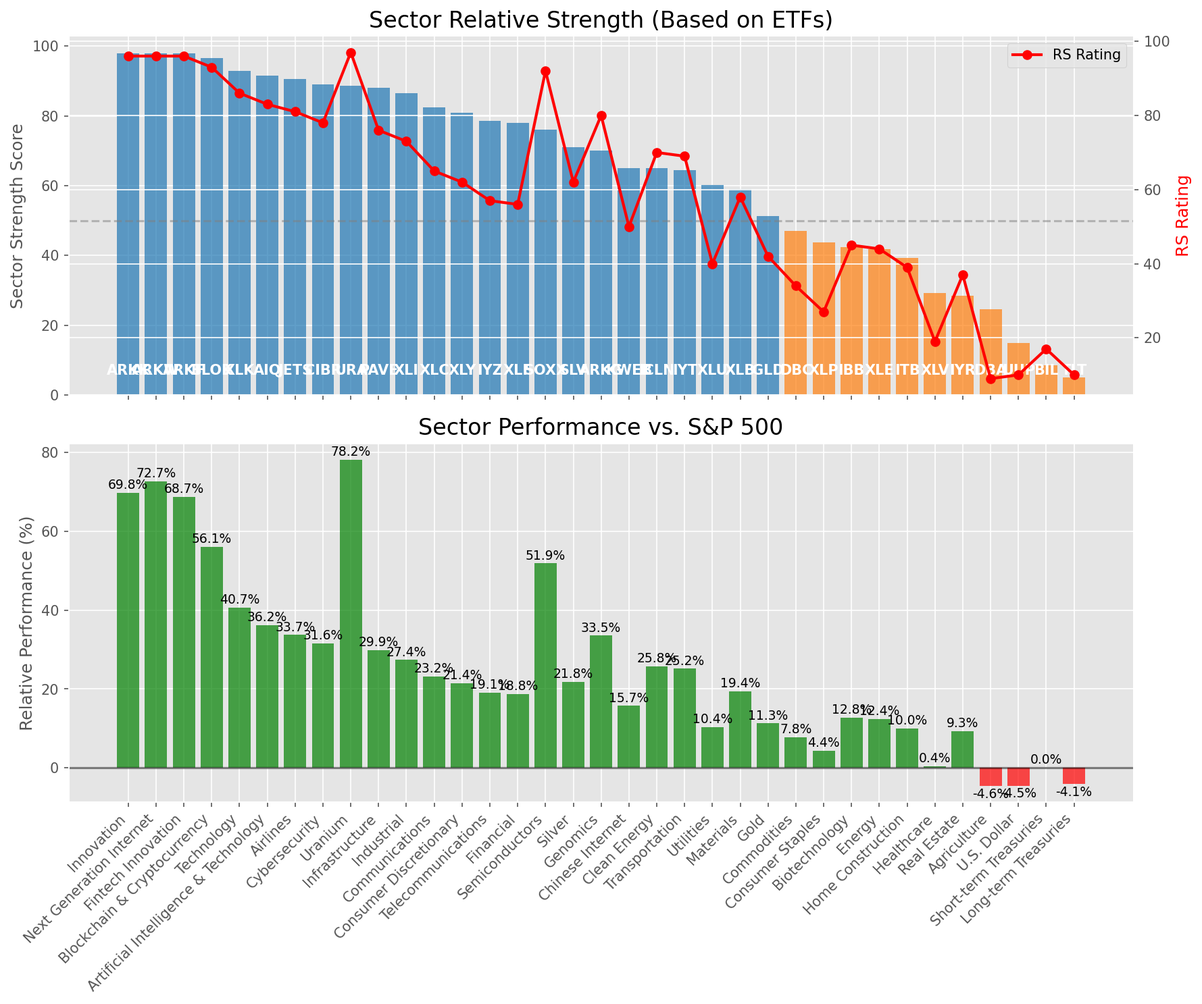
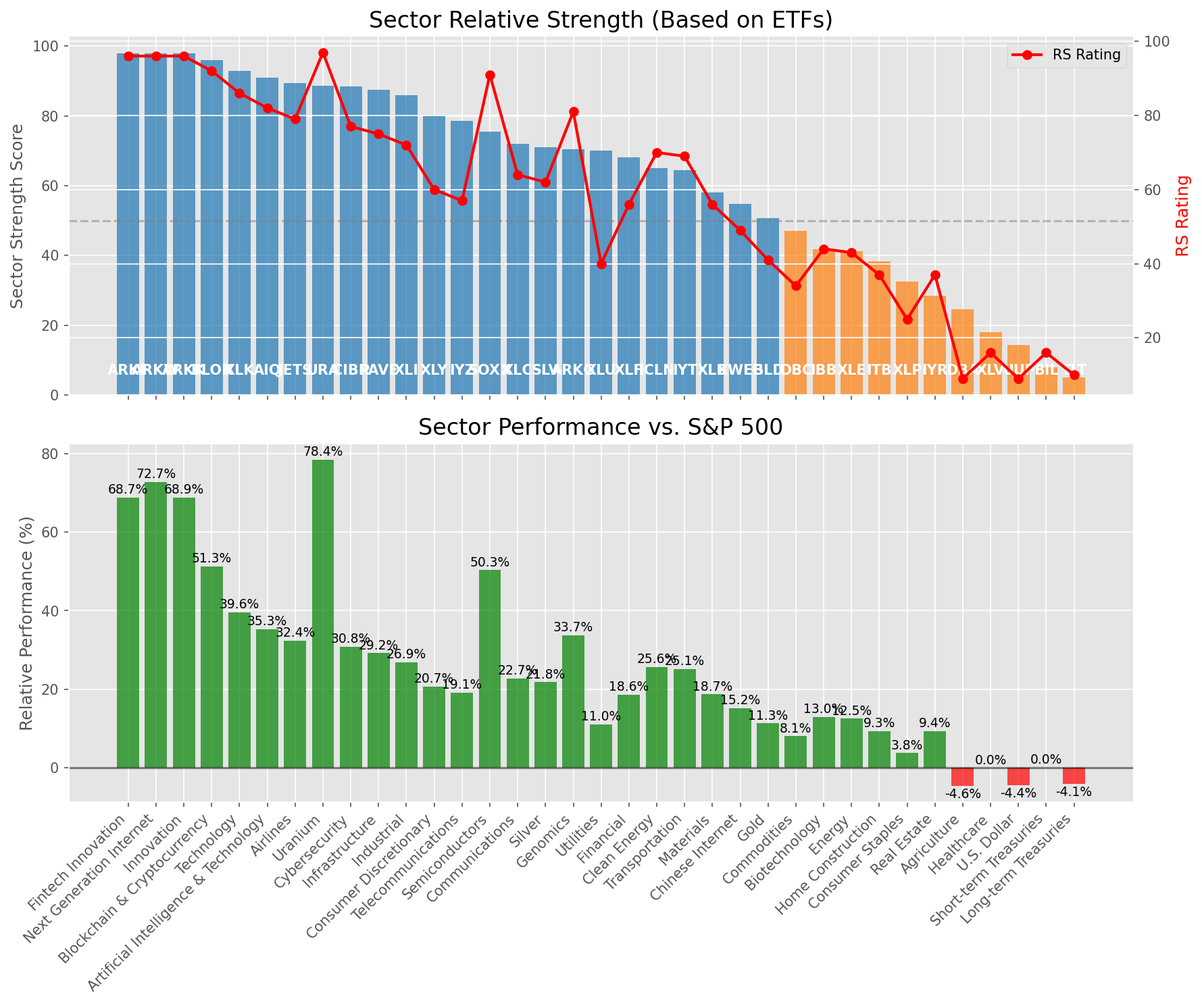
Add market report for 2025-07-09

diff --git a/oneil_relative_strength_report_2025-07-09.md b/oneil_relative_strength_report_2025-07-09.md
@@ -9,11 +9,11 @@
 | Metric | Value |
 |--------|-------|
 | **Market Valuation** | **Overvalued** |
-| **Current Ratio** | 10.26 |
+| **Current Ratio** | 10.21 |
 | **Historical Mean** | 9.42 |
 | **Standard Deviation** | 0.50 |
 | **Z-Score (StdDev from Mean)** | 1.54 |
-| **Total Market Cap** | $307.32 trillion |
+| **Total Market Cap** | $305.89 trillion |
 | **GDP** | $29.96 trillion |
 
 ## **Market Insights**
@@ -49,41 +49,41 @@ Based on William O'Neil's Relative Strength Methodology
 
 | ETF | Strength | RS Rating | Performance | Above Key MAs | Trend | Sector |
 |-----|----------|-----------|-------------|--------------|-------|--------|
-| [ARKK](https://www.tradingview.com/chart/?symbol=ARKK) | 98.0 | 96.0 | 69.77% | 10d ✓, 50d ✓, 200d ✓ | ↗ | Innovation |
-| [ARKW](https://www.tradingview.com/chart/?symbol=ARKW) | 98.0 | 96.0 | 72.71% | 10d ✓, 50d ✓, 200d ✓ | ↗ | Next Generation Internet |
 | [ARKF](https://www.tradingview.com/chart/?symbol=ARKF) | 98.0 | 96.0 | 68.74% | 10d ✓, 50d ✓, 200d ✓ | ↗ | Fintech Innovation |
-| [BLOK](https://www.tradingview.com/chart/?symbol=BLOK) | 96.5 | 93.0 | 56.07% | 10d ✓, 50d ✓, 200d ✓ | ↗ | Blockchain & Cryptocurrency |
-| [XLK](https://www.tradingview.com/chart/?symbol=XLK) | 93.0 | 86.0 | 40.67% | 10d ✓, 50d ✓, 200d ✓ | ↗ | Technology |
-| [AIQ](https://www.tradingview.com/chart/?symbol=AIQ) | 91.5 | 83.0 | 36.24% | 10d ✓, 50d ✓, 200d ✓ | ↗ | Artificial Intelligence & Technology |
-| [JETS](https://www.tradingview.com/chart/?symbol=JETS) | 90.5 | 81.0 | 33.74% | 10d ✓, 50d ✓, 200d ✓ | ↗ | Airlines |
-| [CIBR](https://www.tradingview.com/chart/?symbol=CIBR) | 89.0 | 78.0 | 31.58% | 10d ✓, 50d ✓, 200d ✓ | ↗ | Cybersecurity |
-| [URA](https://www.tradingview.com/chart/?symbol=URA) | 88.6 | 97.0 | 78.21% | 10d ✗, 50d ✓, 200d ✓ | ↗ | Uranium |
-| [PAVE](https://www.tradingview.com/chart/?symbol=PAVE) | 88.0 | 76.0 | 29.92% | 10d ✓, 50d ✓, 200d ✓ | ↗ | Infrastructure |
-| [XLI](https://www.tradingview.com/chart/?symbol=XLI) | 86.5 | 73.0 | 27.39% | 10d ✓, 50d ✓, 200d ✓ | ↗ | Industrial |
-| [XLC](https://www.tradingview.com/chart/?symbol=XLC) | 82.5 | 65.0 | 23.21% | 10d ✓, 50d ✓, 200d ✓ | ↗ | Communications |
-| [XLY](https://www.tradingview.com/chart/?symbol=XLY) | 81.0 | 62.0 | 21.43% | 10d ✓, 50d ✓, 200d ✓ | ↗ | Consumer Discretionary |
+| [ARKW](https://www.tradingview.com/chart/?symbol=ARKW) | 98.0 | 96.0 | 72.71% | 10d ✓, 50d ✓, 200d ✓ | ↗ | Next Generation Internet |
+| [ARKK](https://www.tradingview.com/chart/?symbol=ARKK) | 98.0 | 96.0 | 68.85% | 10d ✓, 50d ✓, 200d ✓ | ↗ | Innovation |
+| [BLOK](https://www.tradingview.com/chart/?symbol=BLOK) | 96.0 | 92.0 | 51.28% | 10d ✓, 50d ✓, 200d ✓ | ↗ | Blockchain & Cryptocurrency |
+| [XLK](https://www.tradingview.com/chart/?symbol=XLK) | 93.0 | 86.0 | 39.62% | 10d ✓, 50d ✓, 200d ✓ | ↗ | Technology |
+| [AIQ](https://www.tradingview.com/chart/?symbol=AIQ) | 91.0 | 82.0 | 35.33% | 10d ✓, 50d ✓, 200d ✓ | ↗ | Artificial Intelligence & Technology |
+| [JETS](https://www.tradingview.com/chart/?symbol=JETS) | 89.5 | 79.0 | 32.35% | 10d ✓, 50d ✓, 200d ✓ | ↗ | Airlines |
+| [URA](https://www.tradingview.com/chart/?symbol=URA) | 88.6 | 97.0 | 78.43% | 10d ✗, 50d ✓, 200d ✓ | ↗ | Uranium |
+| [CIBR](https://www.tradingview.com/chart/?symbol=CIBR) | 88.5 | 77.0 | 30.82% | 10d ✓, 50d ✓, 200d ✓ | ↗ | Cybersecurity |
+| [PAVE](https://www.tradingview.com/chart/?symbol=PAVE) | 87.5 | 75.0 | 29.22% | 10d ✓, 50d ✓, 200d ✓ | ↗ | Infrastructure |
+| [XLI](https://www.tradingview.com/chart/?symbol=XLI) | 86.0 | 72.0 | 26.92% | 10d ✓, 50d ✓, 200d ✓ | ↗ | Industrial |
+| [XLY](https://www.tradingview.com/chart/?symbol=XLY) | 80.0 | 60.0 | 20.73% | 10d ✓, 50d ✓, 200d ✓ | ↗ | Consumer Discretionary |
 | [IYZ](https://www.tradingview.com/chart/?symbol=IYZ) | 78.5 | 57.0 | 19.13% | 10d ✓, 50d ✓, 200d ✓ | ↗ | Telecommunications |
-| [XLF](https://www.tradingview.com/chart/?symbol=XLF) | 78.0 | 56.0 | 18.78% | 10d ✓, 50d ✓, 200d ✓ | ↗ | Financial |
-| [SOXX](https://www.tradingview.com/chart/?symbol=SOXX) | 76.0 | 92.0 | 51.88% | 10d ✓, 50d ✓, 200d ✓ | ↘ | Semiconductors |
-| [SLV](https://www.tradingview.com/chart/?symbol=SLV) | 71.1 | 62.0 | 21.85% | 10d ✗, 50d ✓, 200d ✓ | ↗ | Silver |
-| [ARKG](https://www.tradingview.com/chart/?symbol=ARKG) | 70.0 | 80.0 | 33.54% | 10d ✓, 50d ✓, 200d ✓ | ↘ | Genomics |
-| [KWEB](https://www.tradingview.com/chart/?symbol=KWEB) | 65.1 | 50.0 | 15.72% | 10d ✗, 50d ✓, 200d ✓ | ↗ | Chinese Internet |
-| [ICLN](https://www.tradingview.com/chart/?symbol=ICLN) | 65.0 | 70.0 | 25.81% | 10d ✓, 50d ✓, 200d ✓ | ↘ | Clean Energy |
-| [IYT](https://www.tradingview.com/chart/?symbol=IYT) | 64.5 | 69.0 | 25.18% | 10d ✓, 50d ✓, 200d ✓ | ↘ | Transportation |
-| [XLU](https://www.tradingview.com/chart/?symbol=XLU) | 60.1 | 40.0 | 10.38% | 10d ✗, 50d ✓, 200d ✓ | ↗ | Utilities |
-| [XLB](https://www.tradingview.com/chart/?symbol=XLB) | 59.0 | 58.0 | 19.42% | 10d ✓, 50d ✓, 200d ✓ | ↘ | Materials |
-| [GLD](https://www.tradingview.com/chart/?symbol=GLD) | 51.2 | 42.0 | 11.29% | 10d ✗, 50d ✗, 200d ✓ | ↗ | Gold |
-| [DBC](https://www.tradingview.com/chart/?symbol=DBC) | 47.0 | 34.0 | 7.81% | 10d ✓, 50d ✓, 200d ✓ | ↘ | Commodities |
-| [XLP](https://www.tradingview.com/chart/?symbol=XLP) | 43.7 | 27.0 | 4.38% | 10d ✗, 50d ✗, 200d ✓ | ↗ | Consumer Staples |
-| [IBB](https://www.tradingview.com/chart/?symbol=IBB) | 42.3 | 45.0 | 12.80% | 10d ✓, 50d ✓, 200d ✗ | ↘ | Biotechnology |
-| [XLE](https://www.tradingview.com/chart/?symbol=XLE) | 41.8 | 44.0 | 12.36% | 10d ✓, 50d ✓, 200d ✗ | ↘ | Energy |
-| [ITB](https://www.tradingview.com/chart/?symbol=ITB) | 39.3 | 39.0 | 9.95% | 10d ✓, 50d ✓, 200d ✗ | ↘ | Home Construction |
-| [XLV](https://www.tradingview.com/chart/?symbol=XLV) | 29.3 | 19.0 | 0.36% | 10d ✓, 50d ✓, 200d ✗ | ↘ | Healthcare |
-| [IYR](https://www.tradingview.com/chart/?symbol=IYR) | 28.4 | 37.0 | 9.28% | 10d ✗, 50d ✓, 200d ✗ | ↘ | Real Estate |
+| [SOXX](https://www.tradingview.com/chart/?symbol=SOXX) | 75.5 | 91.0 | 50.33% | 10d ✓, 50d ✓, 200d ✓ | ↘ | Semiconductors |
+| [XLC](https://www.tradingview.com/chart/?symbol=XLC) | 72.1 | 64.0 | 22.69% | 10d ✗, 50d ✓, 200d ✓ | ↗ | Communications |
+| [SLV](https://www.tradingview.com/chart/?symbol=SLV) | 71.1 | 62.0 | 21.79% | 10d ✗, 50d ✓, 200d ✓ | ↗ | Silver |
+| [ARKG](https://www.tradingview.com/chart/?symbol=ARKG) | 70.5 | 81.0 | 33.70% | 10d ✓, 50d ✓, 200d ✓ | ↘ | Genomics |
+| [XLU](https://www.tradingview.com/chart/?symbol=XLU) | 70.0 | 40.0 | 11.03% | 10d ✓, 50d ✓, 200d ✓ | ↗ | Utilities |
+| [XLF](https://www.tradingview.com/chart/?symbol=XLF) | 68.1 | 56.0 | 18.58% | 10d ✗, 50d ✓, 200d ✓ | ↗ | Financial |
+| [ICLN](https://www.tradingview.com/chart/?symbol=ICLN) | 65.0 | 70.0 | 25.63% | 10d ✓, 50d ✓, 200d ✓ | ↘ | Clean Energy |
+| [IYT](https://www.tradingview.com/chart/?symbol=IYT) | 64.5 | 69.0 | 25.14% | 10d ✓, 50d ✓, 200d ✓ | ↘ | Transportation |
+| [XLB](https://www.tradingview.com/chart/?symbol=XLB) | 58.0 | 56.0 | 18.73% | 10d ✓, 50d ✓, 200d ✓ | ↘ | Materials |
+| [KWEB](https://www.tradingview.com/chart/?symbol=KWEB) | 54.7 | 49.0 | 15.23% | 10d ✗, 50d ✗, 200d ✓ | ↗ | Chinese Internet |
+| [GLD](https://www.tradingview.com/chart/?symbol=GLD) | 50.7 | 41.0 | 11.34% | 10d ✗, 50d ✗, 200d ✓ | ↗ | Gold |
+| [DBC](https://www.tradingview.com/chart/?symbol=DBC) | 47.0 | 34.0 | 8.05% | 10d ✓, 50d ✓, 200d ✓ | ↘ | Commodities |
+| [IBB](https://www.tradingview.com/chart/?symbol=IBB) | 41.8 | 44.0 | 12.98% | 10d ✓, 50d ✓, 200d ✗ | ↘ | Biotechnology |
+| [XLE](https://www.tradingview.com/chart/?symbol=XLE) | 41.3 | 43.0 | 12.54% | 10d ✓, 50d ✓, 200d ✗ | ↘ | Energy |
+| [ITB](https://www.tradingview.com/chart/?symbol=ITB) | 38.3 | 37.0 | 9.34% | 10d ✓, 50d ✓, 200d ✗ | ↘ | Home Construction |
+| [XLP](https://www.tradingview.com/chart/?symbol=XLP) | 32.5 | 25.0 | 3.78% | 10d ✗, 50d ✗, 200d ✗ | ↗ | Consumer Staples |
+| [IYR](https://www.tradingview.com/chart/?symbol=IYR) | 28.4 | 37.0 | 9.37% | 10d ✗, 50d ✓, 200d ✗ | ↘ | Real Estate |
 | [DBA](https://www.tradingview.com/chart/?symbol=DBA) | 24.5 | 9.0 | -4.60% | 10d ✗, 50d ✗, 200d ✗ | ↗ | Agriculture |
-| [UUP](https://www.tradingview.com/chart/?symbol=UUP) | 14.9 | 10.0 | -4.55% | 10d ✓, 50d ✗, 200d ✗ | ↘ | U.S. Dollar |
-| [BIL](https://www.tradingview.com/chart/?symbol=BIL) | 8.5 | 17.0 | 0.03% | 10d ✗, 50d ✗, 200d ✗ | ↘ | Short-term Treasuries |
-| [TLT](https://www.tradingview.com/chart/?symbol=TLT) | 5.0 | 10.0 | -4.10% | 10d ✗, 50d ✗, 200d ✗ | ↘ | Long-term Treasuries |
+| [XLV](https://www.tradingview.com/chart/?symbol=XLV) | 17.9 | 16.0 | 0.01% | 10d ✗, 50d ✓, 200d ✗ | ↘ | Healthcare |
+| [UUP](https://www.tradingview.com/chart/?symbol=UUP) | 14.4 | 9.0 | -4.44% | 10d ✓, 50d ✗, 200d ✗ | ↘ | U.S. Dollar |
+| [BIL](https://www.tradingview.com/chart/?symbol=BIL) | 8.0 | 16.0 | 0.04% | 10d ✗, 50d ✗, 200d ✗ | ↘ | Short-term Treasuries |
+| [TLT](https://www.tradingview.com/chart/?symbol=TLT) | 5.0 | 10.0 | -4.11% | 10d ✗, 50d ✗, 200d ✗ | ↘ | Long-term Treasuries |
 
 ### **Sector ETF Performance Interpretation**
 
@@ -98,60 +98,57 @@ This table shows the relative strength metrics for different market sectors base
 
 ### **Current Sector Leadership**
 
-The current market leadership is coming from the following sectors: **Innovation, Next Generation Internet, Fintech Innovation**.
+The current market leadership is coming from the following sectors: **Fintech Innovation, Next Generation Internet, Innovation**.
 
-The **Innovation** sector (represented by **ARKK**) is showing particularly strong relative strength with an RS rating of 96.0 and performance of 69.77% vs. the S&P 500. This sector is trading above its 10-day, 50-day, 200-day moving average(s). Investors should consider focusing on high RS stocks within these leading sectors for potential outperformance.
+The **Fintech Innovation** sector (represented by **ARKF**) is showing particularly strong relative strength with an RS rating of 96.0 and performance of 68.74% vs. the S&P 500. This sector is trading above its 10-day, 50-day, 200-day moving average(s). Investors should consider focusing on high RS stocks within these leading sectors for potential outperformance.
 
 ---
 
 ## **Buy Recommendations**
 
-The following 44 stocks show exceptional relative strength:
+The following 41 stocks show exceptional relative strength:
 
 | RS Rating | Buy Score | Current Price | Chart | Name | Ticker |
 |-----------|-----------|---------------|-------|------|--------|
-| 100 | 100 | $93.92 | [Chart](https://www.tradingview.com/chart/?symbol=HOOD) | Robinhood Markets, Inc. Class A Common Stock | HOOD |
-| 100 | 100 | $262.07 | [Chart](https://www.tradingview.com/chart/?symbol=DAVE) | Dave Inc. Class A Common Stock | DAVE |
-| 100 | 100 | $37.37 | [Chart](https://www.tradingview.com/chart/?symbol=GRPN) | Groupon, Inc.Common Stock | GRPN |
-| 99 | 100 | $104.78 | [Chart](https://www.tradingview.com/chart/?symbol=VRNA) | Verona Pharma plc | VRNA |
-| 99 | 100 | $105.31 | [Chart](https://www.tradingview.com/chart/?symbol=RBLX) | Roblox Corporation | RBLX |
+| 100 | 100 | $93.84 | [Chart](https://www.tradingview.com/chart/?symbol=HOOD) | Robinhood Markets, Inc. Class A Common Stock | HOOD |
+| 100 | 100 | $177.78 | [Chart](https://www.tradingview.com/chart/?symbol=LEU) | Centrus Energy Corp. | LEU |
+| 99 | 100 | $75.31 | [Chart](https://www.tradingview.com/chart/?symbol=ODD) | ODDITY Tech Ltd. Class A Ordinary Shares | ODD |
+| 99 | 100 | $104.80 | [Chart](https://www.tradingview.com/chart/?symbol=VRNA) | Verona Pharma plc | VRNA |
 | 99 | 100 | $143.48 | [Chart](https://www.tradingview.com/chart/?symbol=LMB) | Limbach Holdings, Inc Common Stock | LMB |
-| 99 | 100 | $345.89 | [Chart](https://www.tradingview.com/chart/?symbol=CVNA) | Carvana Co. | CVNA |
-| 98 | 100 | $532.00 | [Chart](https://www.tradingview.com/chart/?symbol=GEV) | GE Vernova Inc. | GEV |
-| 98 | 100 | $139.94 | [Chart](https://www.tradingview.com/chart/?symbol=PLTR) | Palantir Technologies Inc. Class A Common Stock | PLTR |
-| 98 | 100 | $43.92 | [Chart](https://www.tradingview.com/chart/?symbol=FARO) | Faro Technologies Inc | FARO |
-| 96 | 100 | $49.68 | [Chart](https://www.tradingview.com/chart/?symbol=REVG) | REV Group, Inc. | REVG |
+| 99 | 100 | $349.08 | [Chart](https://www.tradingview.com/chart/?symbol=CVNA) | Carvana Co. | CVNA |
+| 99 | 100 | $105.79 | [Chart](https://www.tradingview.com/chart/?symbol=RBLX) | Roblox Corporation | RBLX |
+| 98 | 100 | $539.44 | [Chart](https://www.tradingview.com/chart/?symbol=GEV) | GE Vernova Inc. | GEV |
+| 98 | 100 | $140.44 | [Chart](https://www.tradingview.com/chart/?symbol=PLTR) | Palantir Technologies Inc. Class A Common Stock | PLTR |
+| 98 | 100 | $43.94 | [Chart](https://www.tradingview.com/chart/?symbol=FARO) | Faro Technologies Inc | FARO |
+| 97 | 100 | $137.43 | [Chart](https://www.tradingview.com/chart/?symbol=FUTU) | Futu Holdings Limited American Depositary Shares | FUTU |
 | 96 | 100 | $50.25 | [Chart](https://www.tradingview.com/chart/?symbol=ARKF) | ARK Fintech Innovation ETF | ARKF |
-| 96 | 100 | $134.94 | [Chart](https://www.tradingview.com/chart/?symbol=FUTU) | Futu Holdings Limited American Depositary Shares | FUTU |
-| 96 | 100 | $38.31 | [Chart](https://www.tradingview.com/chart/?symbol=AS) | Amer Sports, Inc. | AS |
-| 94 | 100 | $50.84 | [Chart](https://www.tradingview.com/chart/?symbol=INOD) | Innodata Inc. | INOD |
-| 94 | 100 | $57.91 | [Chart](https://www.tradingview.com/chart/?symbol=IBKR) | Interactive Brokers Group, Inc. Class A Common Stock | IBKR |
-| 94 | 100 | $21.36 | [Chart](https://www.tradingview.com/chart/?symbol=MAG) | MAG Silver Corp. | MAG |
+| 96 | 100 | $88.86 | [Chart](https://www.tradingview.com/chart/?symbol=RBRK) | Rubrik, Inc. | RBRK |
+| 96 | 100 | $38.28 | [Chart](https://www.tradingview.com/chart/?symbol=AS) | Amer Sports, Inc. | AS |
+| 95 | 100 | $58.49 | [Chart](https://www.tradingview.com/chart/?symbol=IBKR) | Interactive Brokers Group, Inc. Class A Common Stock | IBKR |
 | 94 | 100 | $249.85 | [Chart](https://www.tradingview.com/chart/?symbol=WWD) | Woodward, Inc. | WWD |
-| 93 | 100 | $511.00 | [Chart](https://www.tradingview.com/chart/?symbol=CRWD) | CrowdStrike Holdings, Inc. Class A Common Stock | CRWD |
-| 93 | 100 | $179.73 | [Chart](https://www.tradingview.com/chart/?symbol=HWM) | Howmet Aerospace Inc. | HWM |
-| 93 | 100 | $44.52 | [Chart](https://www.tradingview.com/chart/?symbol=KTOS) | Kratos Defense & Security Solutions, Inc. | KTOS |
-| 93 | 100 | $30.07 | [Chart](https://www.tradingview.com/chart/?symbol=DB) | Deutsche Bank Aktiengesellschaft | DB |
-| 92 | 100 | $102.23 | [Chart](https://www.tradingview.com/chart/?symbol=SANM) | Sanmina  Corp | SANM |
-| 92 | 100 | $46.27 | [Chart](https://www.tradingview.com/chart/?symbol=DRS) | Leonardo DRS, Inc. Common Stock | DRS |
-| 92 | 100 | $42.79 | [Chart](https://www.tradingview.com/chart/?symbol=KD) | Kyndryl Holdings, Inc. | KD |
-| 92 | 100 | $352.28 | [Chart](https://www.tradingview.com/chart/?symbol=APP) | Applovin Corporation Class A Common Stock | APP |
+| 94 | 100 | $45.04 | [Chart](https://www.tradingview.com/chart/?symbol=KTOS) | Kratos Defense & Security Solutions, Inc. | KTOS |
+| 93 | 100 | $180.99 | [Chart](https://www.tradingview.com/chart/?symbol=HWM) | Howmet Aerospace Inc. | HWM |
+| 93 | 100 | $30.16 | [Chart](https://www.tradingview.com/chart/?symbol=DB) | Deutsche Bank Aktiengesellschaft | DB |
+| 93 | 100 | $50.03 | [Chart](https://www.tradingview.com/chart/?symbol=INOD) | Innodata Inc. | INOD |
+| 93 | 100 | $84.40 | [Chart](https://www.tradingview.com/chart/?symbol=RYTM) | Rhythm Pharmaceuticals, Inc. Common Stock | RYTM |
+| 93 | 100 | $508.24 | [Chart](https://www.tradingview.com/chart/?symbol=CRWD) | CrowdStrike Holdings, Inc. Class A Common Stock | CRWD |
 | 92 | 100 | $30.24 | [Chart](https://www.tradingview.com/chart/?symbol=NTGR) | NETGEAR, Inc. | NTGR |
-| 91 | 100 | $82.33 | [Chart](https://www.tradingview.com/chart/?symbol=RYTM) | Rhythm Pharmaceuticals, Inc. Common Stock | RYTM |
-| 91 | 100 | $94.35 | [Chart](https://www.tradingview.com/chart/?symbol=TPR) | Tapestry, Inc. Common Stock | TPR |
-| 90 | 100 | $44.87 | [Chart](https://www.tradingview.com/chart/?symbol=BBIO) | BridgeBio Pharma, Inc. Common Stock | BBIO |
-| 89 | 100 | $18.49 | [Chart](https://www.tradingview.com/chart/?symbol=BCS) | Barclays PLC | BCS |
+| 92 | 100 | $46.75 | [Chart](https://www.tradingview.com/chart/?symbol=DRS) | Leonardo DRS, Inc. Common Stock | DRS |
+| 91 | 100 | $45.37 | [Chart](https://www.tradingview.com/chart/?symbol=BBIO) | BridgeBio Pharma, Inc. Common Stock | BBIO |
+| 91 | 100 | $42.26 | [Chart](https://www.tradingview.com/chart/?symbol=KD) | Kyndryl Holdings, Inc. | KD |
+| 91 | 100 | $94.38 | [Chart](https://www.tradingview.com/chart/?symbol=TPR) | Tapestry, Inc. Common Stock | TPR |
 | 89 | 100 | $284.92 | [Chart](https://www.tradingview.com/chart/?symbol=RL) | Ralph Lauren Corporation | RL |
-| 86 | 100 | $29.09 | [Chart](https://www.tradingview.com/chart/?symbol=SRAD) | Sportradar Group AG Class A Ordinary Shares | SRAD |
-| 85 | 98 | $29.96 | [Chart](https://www.tradingview.com/chart/?symbol=CAE) | CAE INC | CAE |
-| 84 | 98 | $95.96 | [Chart](https://www.tradingview.com/chart/?symbol=SNEX) | StoneX Group Inc. Common Stock | SNEX |
-| 86 | 96 | $62.13 | [Chart](https://www.tradingview.com/chart/?symbol=IBIT) | iShares Bitcoin Trust ETF | IBIT |
-| 85 | 96 | $35.62 | [Chart](https://www.tradingview.com/chart/?symbol=ATAT) | Atour Lifestyle Holdings Limited American Depositary Shares | ATAT |
-| 85 | 96 | $25.00 | [Chart](https://www.tradingview.com/chart/?symbol=KAR) | OPENLANE, Inc | KAR |
-| 83 | 95 | $59.70 | [Chart](https://www.tradingview.com/chart/?symbol=SHLD) | Global X Defense Tech ETF | SHLD |
-| 83 | 94 | $76.14 | [Chart](https://www.tradingview.com/chart/?symbol=CTVA) | Corteva, Inc. Common Stock | CTVA |
-| 81 | 93 | $26.18 | [Chart](https://www.tradingview.com/chart/?symbol=OR) | OR Royalties Inc. | OR |
-| 81 | 91 | $112.12 | [Chart](https://www.tradingview.com/chart/?symbol=SPMO) | Invesco S&P 500 Momentum ETF | SPMO |
+| 89 | 100 | $18.52 | [Chart](https://www.tradingview.com/chart/?symbol=BCS) | Barclays PLC | BCS |
+| 87 | 100 | $29.15 | [Chart](https://www.tradingview.com/chart/?symbol=SRAD) | Sportradar Group AG Class A Ordinary Shares | SRAD |
+| 87 | 100 | $29.69 | [Chart](https://www.tradingview.com/chart/?symbol=CAE) | CAE INC | CAE |
+| 86 | 96 | $61.86 | [Chart](https://www.tradingview.com/chart/?symbol=IBIT) | iShares Bitcoin Trust ETF | IBIT |
+| 85 | 96 | $35.67 | [Chart](https://www.tradingview.com/chart/?symbol=ATAT) | Atour Lifestyle Holdings Limited American Depositary Shares | ATAT |
+| 84 | 96 | $59.88 | [Chart](https://www.tradingview.com/chart/?symbol=SHLD) | Global X Defense Tech ETF | SHLD |
+| 82 | 96 | $95.29 | [Chart](https://www.tradingview.com/chart/?symbol=SNEX) | StoneX Group Inc. Common Stock | SNEX |
+| 84 | 95 | $24.98 | [Chart](https://www.tradingview.com/chart/?symbol=KAR) | OPENLANE, Inc | KAR |
+| 83 | 94 | $76.05 | [Chart](https://www.tradingview.com/chart/?symbol=CTVA) | Corteva, Inc. Common Stock | CTVA |
+| 81 | 93 | $26.25 | [Chart](https://www.tradingview.com/chart/?symbol=OR) | OR Royalties Inc. | OR |
+| 81 | 91 | $111.87 | [Chart](https://www.tradingview.com/chart/?symbol=SPMO) | Invesco S&P 500 Momentum ETF | SPMO |
 | 80 | 91 | $5713.33 | [Chart](https://www.tradingview.com/chart/?symbol=BKNG) | Booking Holdings Inc. Common Stock | BKNG |
 | 80 | 90 | $267.17 | [Chart](https://www.tradingview.com/chart/?symbol=FDN) | First Trust Dow Jones Internet Index Fund ETF | FDN |
 
@@ -160,105 +157,113 @@ The following 44 stocks show exceptional relative strength:
 
 ## **Sell Recommendations**
 
-The following 95 stocks show deteriorating relative strength:
+The following 103 stocks show deteriorating relative strength:
 
 | RS Rating | Sell Score | Current Price | Chart | Name | Ticker |
 |-----------|------------|---------------|-------|------|--------|
-| 1 | 100 | $40.51 | [Chart](https://www.tradingview.com/chart/?symbol=SDOW) | ProShares UltraPro Short Dow 30 | SDOW |
-| 1 | 100 | $24.86 | [Chart](https://www.tradingview.com/chart/?symbol=QID) | ProShares UltraShort QQQ | QID |
-| 1 | 100 | $16.36 | [Chart](https://www.tradingview.com/chart/?symbol=SDS) | ProShares UltraShort S&P500 | SDS |
-| 1 | 100 | $25.26 | [Chart](https://www.tradingview.com/chart/?symbol=TECS) | Direxion Daily Technology Bear 3x Shares | TECS |
-| 1 | 100 | $13.69 | [Chart](https://www.tradingview.com/chart/?symbol=NVDS) | Investment Managers Series Trust II Tradr 1.5X Short NVDA Daily ETF | NVDS |
-| 2 | 100 | $19.36 | [Chart](https://www.tradingview.com/chart/?symbol=BITI) | ProShares Short Bitcoin ETF | BITI |
-| 2 | 100 | $23.87 | [Chart](https://www.tradingview.com/chart/?symbol=DXD) | ProShares UltraShort Dow 30 | DXD |
-| 2 | 100 | $33.38 | [Chart](https://www.tradingview.com/chart/?symbol=PSQ) | ProShares Short QQQ | PSQ |
+| 1 | 100 | $25.86 | [Chart](https://www.tradingview.com/chart/?symbol=TECS) | Direxion Daily Technology Bear 3x Shares | TECS |
+| 1 | 100 | $16.52 | [Chart](https://www.tradingview.com/chart/?symbol=SDS) | ProShares UltraShort S&P500 | SDS |
+| 1 | 100 | $13.77 | [Chart](https://www.tradingview.com/chart/?symbol=NVDS) | Investment Managers Series Trust II Tradr 1.5X Short NVDA Daily ETF | NVDS |
+| 1 | 100 | $25.20 | [Chart](https://www.tradingview.com/chart/?symbol=QID) | ProShares UltraShort QQQ | QID |
+| 1 | 100 | $41.04 | [Chart](https://www.tradingview.com/chart/?symbol=SDOW) | ProShares UltraPro Short Dow 30 | SDOW |
+| 1 | 100 | $12.64 | [Chart](https://www.tradingview.com/chart/?symbol=IART) | Integra LifeSciences Holdings | IART |
 | 2 | 100 | $35.36 | [Chart](https://www.tradingview.com/chart/?symbol=SARK) | Investment Managers Series Trust II Tradr 1X Short Innovation Daily ETF | SARK |
-| 2 | 100 | $40.84 | [Chart](https://www.tradingview.com/chart/?symbol=ENPH) | Enphase Energy, Inc. | ENPH |
-| 2 | 100 | $13.00 | [Chart](https://www.tradingview.com/chart/?symbol=IART) | Integra LifeSciences Holdings | IART |
-| 3 | 100 | $35.91 | [Chart](https://www.tradingview.com/chart/?symbol=IBTA) | Ibotta, Inc. | IBTA |
+| 2 | 100 | $24.07 | [Chart](https://www.tradingview.com/chart/?symbol=DXD) | ProShares UltraShort Dow 30 | DXD |
+| 2 | 100 | $33.60 | [Chart](https://www.tradingview.com/chart/?symbol=PSQ) | ProShares Short QQQ | PSQ |
+| 2 | 100 | $228.64 | [Chart](https://www.tradingview.com/chart/?symbol=MOH) | Molina Healthcare, Inc. | MOH |
+| 2 | 100 | $19.44 | [Chart](https://www.tradingview.com/chart/?symbol=BITI) | ProShares Short Bitcoin ETF | BITI |
+| 3 | 100 | $42.82 | [Chart](https://www.tradingview.com/chart/?symbol=LINE) | Lineage, Inc. Common Stock | LINE |
 | 3 | 100 | $38.37 | [Chart](https://www.tradingview.com/chart/?symbol=TREE) | LendingTree, Inc. | TREE |
+| 3 | 100 | $39.53 | [Chart](https://www.tradingview.com/chart/?symbol=SH) | ProShares Short S&P500 | SH |
 | 3 | 100 | $24.79 | [Chart](https://www.tradingview.com/chart/?symbol=CRTO) | Criteo S.A. | CRTO |
-| 3 | 100 | $39.35 | [Chart](https://www.tradingview.com/chart/?symbol=SH) | ProShares Short S&P500 | SH |
-| 3 | 100 | $43.52 | [Chart](https://www.tradingview.com/chart/?symbol=LINE) | Lineage, Inc. Common Stock | LINE |
-| 4 | 100 | $32.11 | [Chart](https://www.tradingview.com/chart/?symbol=CRI) | Carter's Inc. | CRI |
-| 4 | 100 | $25.30 | [Chart](https://www.tradingview.com/chart/?symbol=DOG) | ProShares Short Dow30 | DOG |
-| 4 | 100 | $82.94 | [Chart](https://www.tradingview.com/chart/?symbol=LNTH) | Lantheus Holdings, Inc | LNTH |
-| 4 | 100 | $10.28 | [Chart](https://www.tradingview.com/chart/?symbol=LBTYK) | Liberty Global Ltd. Class C Common Shares | LBTYK |
-| 4 | 100 | $17.06 | [Chart](https://www.tradingview.com/chart/?symbol=HP) | Helmerich & Payne, Inc. | HP |
+| 3 | 100 | $35.91 | [Chart](https://www.tradingview.com/chart/?symbol=IBTA) | Ibotta, Inc. | IBTA |
+| 4 | 100 | $16.98 | [Chart](https://www.tradingview.com/chart/?symbol=HP) | Helmerich & Payne, Inc. | HP |
+| 4 | 100 | $10.71 | [Chart](https://www.tradingview.com/chart/?symbol=SONO) | Sonos, Inc. Common Stock | SONO |
+| 4 | 100 | $10.32 | [Chart](https://www.tradingview.com/chart/?symbol=LBTYK) | Liberty Global Ltd. Class C Common Shares | LBTYK |
 | 4 | 100 | $12.78 | [Chart](https://www.tradingview.com/chart/?symbol=CCRN) | Cross Country Healthcare Inc | CCRN |
-| 5 | 100 | $10.18 | [Chart](https://www.tradingview.com/chart/?symbol=LBTYA) | Liberty Global Ltd. Class A Common Shares | LBTYA |
-| 5 | 100 | $93.31 | [Chart](https://www.tradingview.com/chart/?symbol=ZBH) | Zimmer Biomet Holdings, Inc. | ZBH |
+| 4 | 100 | $25.41 | [Chart](https://www.tradingview.com/chart/?symbol=DOG) | ProShares Short Dow30 | DOG |
+| 4 | 100 | $82.39 | [Chart](https://www.tradingview.com/chart/?symbol=LNTH) | Lantheus Holdings, Inc | LNTH |
+| 5 | 100 | $26.57 | [Chart](https://www.tradingview.com/chart/?symbol=VCYT) | Veracyte, Inc. | VCYT |
+| 5 | 100 | $16.31 | [Chart](https://www.tradingview.com/chart/?symbol=COLD) | Americold Realty Trust, Inc. | COLD |
+| 5 | 100 | $31.82 | [Chart](https://www.tradingview.com/chart/?symbol=CRI) | Carter's Inc. | CRI |
 | 5 | 100 | $63.99 | [Chart](https://www.tradingview.com/chart/?symbol=ZROZ) | PIMCO 25+ Year Zero Coupon U.S. Treasury Index Exchange-Traded Fund | ZROZ |
-| 5 | 100 | $16.49 | [Chart](https://www.tradingview.com/chart/?symbol=COLD) | Americold Realty Trust, Inc. | COLD |
-| 6 | 100 | $26.78 | [Chart](https://www.tradingview.com/chart/?symbol=VCYT) | Veracyte, Inc. | VCYT |
+| 5 | 100 | $10.09 | [Chart](https://www.tradingview.com/chart/?symbol=LBTYA) | Liberty Global Ltd. Class A Common Shares | LBTYA |
+| 6 | 100 | $51.30 | [Chart](https://www.tradingview.com/chart/?symbol=LW) | Lamb Weston Holdings, Inc. | LW |
 | 7 | 100 | $52.45 | [Chart](https://www.tradingview.com/chart/?symbol=CNMD) | CONMED Corporation | CNMD |
 | 7 | 100 | $14.60 | [Chart](https://www.tradingview.com/chart/?symbol=VRE) | Veris Residential, Inc. | VRE |
-| 7 | 100 | $52.10 | [Chart](https://www.tradingview.com/chart/?symbol=LW) | Lamb Weston Holdings, Inc. | LW |
-| 9 | 100 | $40.68 | [Chart](https://www.tradingview.com/chart/?symbol=POR) | Portland General Electric Company | POR |
 | 9 | 100 | $77.00 | [Chart](https://www.tradingview.com/chart/?symbol=CNS) | Cohen & Steers Inc. | CNS |
-| 10 | 100 | $86.36 | [Chart](https://www.tradingview.com/chart/?symbol=TLT) | iShares 20+ Year Treasury Bond ETF | TLT |
-| 12 | 100 | $17.62 | [Chart](https://www.tradingview.com/chart/?symbol=ZTO) | ZTO Express (Cayman) Inc. American Depositary Shares, each representing one Class A ordinary share | ZTO |
-| 12 | 100 | $131.03 | [Chart](https://www.tradingview.com/chart/?symbol=KMB) | Kimberly-Clark Corp. | KMB |
-| 15 | 100 | $29.12 | [Chart](https://www.tradingview.com/chart/?symbol=SPTS) | SPDR Portfolio Short Term Treasury ETF | SPTS |
-| 8 | 99 | $12.99 | [Chart](https://www.tradingview.com/chart/?symbol=GO) | Grocery Outlet Holding Corp. Common Stock | GO |
+| 10 | 100 | $86.35 | [Chart](https://www.tradingview.com/chart/?symbol=TLT) | iShares 20+ Year Treasury Bond ETF | TLT |
+| 11 | 100 | $130.42 | [Chart](https://www.tradingview.com/chart/?symbol=KMB) | Kimberly-Clark Corp. | KMB |
+| 11 | 100 | $38.30 | [Chart](https://www.tradingview.com/chart/?symbol=LKQ) | LKQ Corporation | LKQ |
+| 12 | 100 | $40.62 | [Chart](https://www.tradingview.com/chart/?symbol=POR) | Portland General Electric Company | POR |
+| 12 | 100 | $17.61 | [Chart](https://www.tradingview.com/chart/?symbol=ZTO) | ZTO Express (Cayman) Inc. American Depositary Shares, each representing one Class A ordinary share | ZTO |
+| 14 | 100 | $85.96 | [Chart](https://www.tradingview.com/chart/?symbol=SIGI) | Selective Insurance Group | SIGI |
+| 14 | 100 | $29.12 | [Chart](https://www.tradingview.com/chart/?symbol=SPTS) | SPDR Portfolio Short Term Treasury ETF | SPTS |
+| 7 | 99 | $12.89 | [Chart](https://www.tradingview.com/chart/?symbol=GO) | Grocery Outlet Holding Corp. Common Stock | GO |
 | 8 | 99 | $45.45 | [Chart](https://www.tradingview.com/chart/?symbol=CWT) | California Water Service | CWT |
-| 12 | 99 | $38.64 | [Chart](https://www.tradingview.com/chart/?symbol=LKQ) | LKQ Corporation | LKQ |
-| 15 | 99 | $85.96 | [Chart](https://www.tradingview.com/chart/?symbol=SIGI) | Selective Insurance Group | SIGI |
+| 11 | 99 | $71.39 | [Chart](https://www.tradingview.com/chart/?symbol=TNET) | TRINET GROUP, INC. | TNET |
+| 9 | 98 | $16.02 | [Chart](https://www.tradingview.com/chart/?symbol=TNDM) | Tandem Diabetes Care, Inc. | TNDM |
 | 6 | 97 | $25.28 | [Chart](https://www.tradingview.com/chart/?symbol=DRV) | Direxion Daily Real Estate Bear 3X Shares | DRV |
-| 11 | 97 | $16.27 | [Chart](https://www.tradingview.com/chart/?symbol=TNDM) | Tandem Diabetes Care, Inc. | TNDM |
+| 11 | 97 | $12.81 | [Chart](https://www.tradingview.com/chart/?symbol=UTZ) | Utz Brands, Inc. | UTZ |
 | 11 | 96 | $76.09 | [Chart](https://www.tradingview.com/chart/?symbol=AWR) | American States Water Company | AWR |
-| 12 | 96 | $61.67 | [Chart](https://www.tradingview.com/chart/?symbol=ELS) | Equity Lifestyle Properties, Inc. | ELS |
-| 10 | 95 | $48.81 | [Chart](https://www.tradingview.com/chart/?symbol=SNY) | Sanofi American Depositary Shares (Each representing one-half of one ordinary share) | SNY |
+| 12 | 96 | $61.91 | [Chart](https://www.tradingview.com/chart/?symbol=ELS) | Equity Lifestyle Properties, Inc. | ELS |
+| 14 | 96 | $105.59 | [Chart](https://www.tradingview.com/chart/?symbol=DECK) | Deckers Outdoor Corp | DECK |
+| 10 | 95 | $48.73 | [Chart](https://www.tradingview.com/chart/?symbol=SNY) | Sanofi American Depositary Shares (Each representing one-half of one ordinary share) | SNY |
+| 14 | 95 | $13.73 | [Chart](https://www.tradingview.com/chart/?symbol=TSLT) | T-REX 2X Long Tesla Daily Target ETF | TSLT |
+| 15 | 95 | $162.09 | [Chart](https://www.tradingview.com/chart/?symbol=HSY) | The Hershey Company | HSY |
 | 9 | 94 | $68.95 | [Chart](https://www.tradingview.com/chart/?symbol=BRC) | Brady Corporation | BRC |
+| 15 | 94 | $22.84 | [Chart](https://www.tradingview.com/chart/?symbol=IBTG) | iShares iBonds Dec 2026 Term Treasury ETF | IBTG |
 | 9 | 93 | $132.54 | [Chart](https://www.tradingview.com/chart/?symbol=ICUI) | ICU Medical Inc | ICUI |
 | 13 | 93 | $39.67 | [Chart](https://www.tradingview.com/chart/?symbol=TOTL) | SSgA Active ETF Trust SPDR DoubleLine Total Return Tactical ETF | TOTL |
-| 16 | 93 | $22.84 | [Chart](https://www.tradingview.com/chart/?symbol=IBTG) | iShares iBonds Dec 2026 Term Treasury ETF | IBTG |
-| 20 | 92 | $164.03 | [Chart](https://www.tradingview.com/chart/?symbol=HSY) | The Hershey Company | HSY |
-| 16 | 91 | $14.00 | [Chart](https://www.tradingview.com/chart/?symbol=DOLE) | Dole plc | DOLE |
-| 16 | 91 | $47.36 | [Chart](https://www.tradingview.com/chart/?symbol=KBR) | KBR, Inc. | KBR |
-| 19 | 91 | $106.66 | [Chart](https://www.tradingview.com/chart/?symbol=DECK) | Deckers Outdoor Corp | DECK |
-| 23 | 91 | $32.28 | [Chart](https://www.tradingview.com/chart/?symbol=INVH) | Invitation Homes Inc. Common Stock | INVH |
-| 11 | 90 | $21.66 | [Chart](https://www.tradingview.com/chart/?symbol=TUA) | Simplify Short Term Treasury Futures Strategy ETF | TUA |
+| 15 | 92 | $14.00 | [Chart](https://www.tradingview.com/chart/?symbol=DOLE) | Dole plc | DOLE |
+| 10 | 91 | $21.66 | [Chart](https://www.tradingview.com/chart/?symbol=TUA) | Simplify Short Term Treasury Futures Strategy ETF | TUA |
 | 13 | 90 | $34.35 | [Chart](https://www.tradingview.com/chart/?symbol=PECO) | Phillips Edison & Company, Inc. Common Stock | PECO |
 | 19 | 90 | $83.58 | [Chart](https://www.tradingview.com/chart/?symbol=KSPI) | Joint Stock Company Kaspi.kz American Depository Shares | KSPI |
-| 17 | 89 | $110.16 | [Chart](https://www.tradingview.com/chart/?symbol=SHV) | iShares Short Treasury Bond ETF | SHV |
-| 21 | 88 | $14.00 | [Chart](https://www.tradingview.com/chart/?symbol=TSLT) | T-REX 2X Long Tesla Daily Target ETF | TSLT |
-| 16 | 87 | $36.20 | [Chart](https://www.tradingview.com/chart/?symbol=OHI) | Omega Healthcare Investors Inc. | OHI |
-| 26 | 86 | $15.88 | [Chart](https://www.tradingview.com/chart/?symbol=BNL) | Broadstone Net Lease, Inc. | BNL |
-| 28 | 86 | $60.76 | [Chart](https://www.tradingview.com/chart/?symbol=UL) | Unilever plc | UL |
-| 16 | 85 | $82.44 | [Chart](https://www.tradingview.com/chart/?symbol=SHY) | iShares 1-3 Year Treasury Bond ETF | SHY |
-| 18 | 85 | $59.88 | [Chart](https://www.tradingview.com/chart/?symbol=FTSM) | First Trust Enhanced Short Maturity ETF | FTSM |
-| 22 | 85 | $23.10 | [Chart](https://www.tradingview.com/chart/?symbol=IBHF) | iShares iBonds 2026 Term High Yield and Income ETF | IBHF |
-| 26 | 85 | $105.64 | [Chart](https://www.tradingview.com/chart/?symbol=DEO) | Diageo plc | DEO |
-| 17 | 83 | $50.55 | [Chart](https://www.tradingview.com/chart/?symbol=ICSH) | iShares Ultra Short Duration Bond Active ETF | ICSH |
-| 25 | 83 | $101.43 | [Chart](https://www.tradingview.com/chart/?symbol=CCI) | Crown Castle Inc. | CCI |
-| 18 | 82 | $50.52 | [Chart](https://www.tradingview.com/chart/?symbol=JPST) | JPMorgan Ultra-Short Income ETF | JPST |
-| 20 | 82 | $49.23 | [Chart](https://www.tradingview.com/chart/?symbol=BNDX) | Vanguard Total International Bond ETF | BNDX |
-| 22 | 82 | $19.07 | [Chart](https://www.tradingview.com/chart/?symbol=MSDL) | Morgan Stanley Direct Lending Fund | MSDL |
-| 33 | 82 | $461.88 | [Chart](https://www.tradingview.com/chart/?symbol=LMT) | Lockheed Martin Corp. | LMT |
-| 26 | 81 | $118.17 | [Chart](https://www.tradingview.com/chart/?symbol=ITGR) | Integer Holdings Corporation | ITGR |
-| 22 | 80 | $35.26 | [Chart](https://www.tradingview.com/chart/?symbol=LTC) | LTC Properties, Inc. | LTC |
-| 22 | 79 | $25.76 | [Chart](https://www.tradingview.com/chart/?symbol=TBBB) | BBB Foods Inc. | TBBB |
-| 27 | 79 | $40.90 | [Chart](https://www.tradingview.com/chart/?symbol=UDR) | UDR, Inc. | UDR |
-| 28 | 79 | $35.53 | [Chart](https://www.tradingview.com/chart/?symbol=AMH) | AMERICAN HOMES 4 RENT | AMH |
-| 27 | 78 | $30.94 | [Chart](https://www.tradingview.com/chart/?symbol=AXTA) | Axalta Coating Systems Ltd. | AXTA |
-| 26 | 76 | $23.93 | [Chart](https://www.tradingview.com/chart/?symbol=EWM) | iShares MSCI Malaysia ETF | EWM |
-| 27 | 76 | $89.91 | [Chart](https://www.tradingview.com/chart/?symbol=LPX) | Louisiana-Pacific Corp. | LPX |
-| 34 | 76 | $347.80 | [Chart](https://www.tradingview.com/chart/?symbol=SHW) | The Sherwin-Williams Company | SHW |
-| 25 | 75 | $240.63 | [Chart](https://www.tradingview.com/chart/?symbol=RNR) | RenaissanceRe Holdings Ltd. | RNR |
-| 32 | 75 | $70.28 | [Chart](https://www.tradingview.com/chart/?symbol=AZN) | AstraZeneca PLC | AZN |
-| 32 | 75 | $30.60 | [Chart](https://www.tradingview.com/chart/?symbol=BAX) | Baxter International Inc. | BAX |
-| 32 | 74 | $302.67 | [Chart](https://www.tradingview.com/chart/?symbol=ACN) | Accenture PLC | ACN |
-| 29 | 72 | $105.11 | [Chart](https://www.tradingview.com/chart/?symbol=PDD) | PDD Holdings Inc. American Depositary Shares | PDD |
-| 29 | 72 | $39.25 | [Chart](https://www.tradingview.com/chart/?symbol=LZB) | La-Z-Boy Incorporated | LZB |
-| 31 | 72 | $17.51 | [Chart](https://www.tradingview.com/chart/?symbol=NVCR) | NovoCure Limited Ordinary Shares | NVCR |
-| 32 | 72 | $66.59 | [Chart](https://www.tradingview.com/chart/?symbol=EQR) | Equity Residential | EQR |
-| 34 | 71 | $22.09 | [Chart](https://www.tradingview.com/chart/?symbol=SGRY) | Surgery Partners, Inc. Common Stock | SGRY |
-| 37 | 70 | $29.37 | [Chart](https://www.tradingview.com/chart/?symbol=CRNX) | Crinetics Pharmaceuticals, Inc. | CRNX |
-| 36 | 69 | $88.97 | [Chart](https://www.tradingview.com/chart/?symbol=VNQ) | Vanguard Real Estate ETF | VNQ |
-| 39 | 69 | $25.70 | [Chart](https://www.tradingview.com/chart/?symbol=HPQ) | HP Inc. | HPQ |
-| 33 | 68 | $15.53 | [Chart](https://www.tradingview.com/chart/?symbol=PLSE) | Pulse Biosciences, Inc Common Stock (DE) | PLSE |
-| 36 | 67 | $41.27 | [Chart](https://www.tradingview.com/chart/?symbol=XLRE) | Real Estate Select Sector SPDR Fund | XLRE |
+| 24 | 90 | $32.41 | [Chart](https://www.tradingview.com/chart/?symbol=INVH) | Invitation Homes Inc. Common Stock | INVH |
+| 14 | 89 | $20.13 | [Chart](https://www.tradingview.com/chart/?symbol=CON) | Concentra Group Holdings Parent, Inc. | CON |
+| 16 | 89 | $110.15 | [Chart](https://www.tradingview.com/chart/?symbol=SHV) | iShares Short Treasury Bond ETF | SHV |
+| 22 | 89 | $47.11 | [Chart](https://www.tradingview.com/chart/?symbol=KBR) | KBR, Inc. | KBR |
+| 22 | 88 | $104.13 | [Chart](https://www.tradingview.com/chart/?symbol=DEO) | Diageo plc | DEO |
+| 15 | 87 | $26.69 | [Chart](https://www.tradingview.com/chart/?symbol=FCPT) | Four Corners Property Trust, Inc. | FCPT |
+| 25 | 87 | $15.86 | [Chart](https://www.tradingview.com/chart/?symbol=BNL) | Broadstone Net Lease, Inc. | BNL |
+| 26 | 87 | $60.55 | [Chart](https://www.tradingview.com/chart/?symbol=UL) | Unilever plc | UL |
+| 15 | 86 | $82.43 | [Chart](https://www.tradingview.com/chart/?symbol=SHY) | iShares 1-3 Year Treasury Bond ETF | SHY |
+| 21 | 86 | $23.10 | [Chart](https://www.tradingview.com/chart/?symbol=IBHF) | iShares iBonds 2026 Term High Yield and Income ETF | IBHF |
+| 29 | 86 | $180.92 | [Chart](https://www.tradingview.com/chart/?symbol=UHS) | Universal Health Services, Inc. Class B | UHS |
+| 17 | 85 | $59.88 | [Chart](https://www.tradingview.com/chart/?symbol=FTSM) | First Trust Enhanced Short Maturity ETF | FTSM |
+| 18 | 85 | $36.52 | [Chart](https://www.tradingview.com/chart/?symbol=PBA) | PEMBINA PIPELINE CORPORATION | PBA |
+| 16 | 84 | $50.55 | [Chart](https://www.tradingview.com/chart/?symbol=ICSH) | iShares Ultra Short Duration Bond Active ETF | ICSH |
+| 18 | 84 | $36.43 | [Chart](https://www.tradingview.com/chart/?symbol=OHI) | Omega Healthcare Investors Inc. | OHI |
+| 21 | 84 | $25.25 | [Chart](https://www.tradingview.com/chart/?symbol=TBBB) | BBB Foods Inc. | TBBB |
+| 17 | 83 | $100.28 | [Chart](https://www.tradingview.com/chart/?symbol=MINT) | PIMCO Enhanced Short Maturity Active Exchange-Traded Fund | MINT |
+| 18 | 82 | $35.88 | [Chart](https://www.tradingview.com/chart/?symbol=VERX) | Vertex, Inc. Class A Common Stock | VERX |
+| 23 | 82 | $222.57 | [Chart](https://www.tradingview.com/chart/?symbol=LOW) | Lowe's Companies Inc. | LOW |
+| 24 | 82 | $18.93 | [Chart](https://www.tradingview.com/chart/?symbol=MSDL) | Morgan Stanley Direct Lending Fund | MSDL |
+| 25 | 82 | $118.17 | [Chart](https://www.tradingview.com/chart/?symbol=ITGR) | Integer Holdings Corporation | ITGR |
+| 32 | 82 | $460.89 | [Chart](https://www.tradingview.com/chart/?symbol=LMT) | Lockheed Martin Corp. | LMT |
+| 21 | 81 | $35.26 | [Chart](https://www.tradingview.com/chart/?symbol=LTC) | LTC Properties, Inc. | LTC |
+| 25 | 80 | $30.69 | [Chart](https://www.tradingview.com/chart/?symbol=AXTA) | Axalta Coating Systems Ltd. | AXTA |
+| 36 | 80 | $18.43 | [Chart](https://www.tradingview.com/chart/?symbol=S) | SentinelOne, Inc. | S |
+| 26 | 79 | $296.89 | [Chart](https://www.tradingview.com/chart/?symbol=ACN) | Accenture PLC | ACN |
+| 28 | 79 | $35.66 | [Chart](https://www.tradingview.com/chart/?symbol=AMH) | AMERICAN HOMES 4 RENT | AMH |
+| 27 | 78 | $41.02 | [Chart](https://www.tradingview.com/chart/?symbol=UDR) | UDR, Inc. | UDR |
+| 32 | 78 | $346.13 | [Chart](https://www.tradingview.com/chart/?symbol=SHW) | The Sherwin-Williams Company | SHW |
+| 25 | 77 | $23.93 | [Chart](https://www.tradingview.com/chart/?symbol=EWM) | iShares MSCI Malaysia ETF | EWM |
+| 26 | 77 | $89.91 | [Chart](https://www.tradingview.com/chart/?symbol=LPX) | Louisiana-Pacific Corp. | LPX |
+| 30 | 77 | $30.30 | [Chart](https://www.tradingview.com/chart/?symbol=BAX) | Baxter International Inc. | BAX |
+| 24 | 76 | $240.63 | [Chart](https://www.tradingview.com/chart/?symbol=RNR) | RenaissanceRe Holdings Ltd. | RNR |
+| 32 | 75 | $70.29 | [Chart](https://www.tradingview.com/chart/?symbol=AZN) | AstraZeneca PLC | AZN |
+| 28 | 73 | $39.25 | [Chart](https://www.tradingview.com/chart/?symbol=LZB) | La-Z-Boy Incorporated | LZB |
+| 32 | 72 | $365.22 | [Chart](https://www.tradingview.com/chart/?symbol=HD) | Home Depot, Inc. | HD |
+| 32 | 72 | $66.91 | [Chart](https://www.tradingview.com/chart/?symbol=EQR) | Equity Residential | EQR |
+| 33 | 72 | $22.12 | [Chart](https://www.tradingview.com/chart/?symbol=SGRY) | Surgery Partners, Inc. Common Stock | SGRY |
+| 35 | 72 | $25.38 | [Chart](https://www.tradingview.com/chart/?symbol=HPQ) | HP Inc. | HPQ |
+| 29 | 71 | $113.85 | [Chart](https://www.tradingview.com/chart/?symbol=CPT) | Camden Property Trust | CPT |
+| 32 | 70 | $11.62 | [Chart](https://www.tradingview.com/chart/?symbol=PTLO) | Portillo's Inc. Class A Common Stock | PTLO |
+| 32 | 69 | $15.53 | [Chart](https://www.tradingview.com/chart/?symbol=PLSE) | Pulse Biosciences, Inc Common Stock (DE) | PLSE |
+| 35 | 69 | $88.99 | [Chart](https://www.tradingview.com/chart/?symbol=VNQ) | Vanguard Real Estate ETF | VNQ |
+| 35 | 67 | $41.33 | [Chart](https://www.tradingview.com/chart/?symbol=XLRE) | Real Estate Select Sector SPDR Fund | XLRE |
+| 39 | 67 | $22.29 | [Chart](https://www.tradingview.com/chart/?symbol=KRG) | Kite Realty Group Trust | KRG |
 
 ## **Methodology**
 
